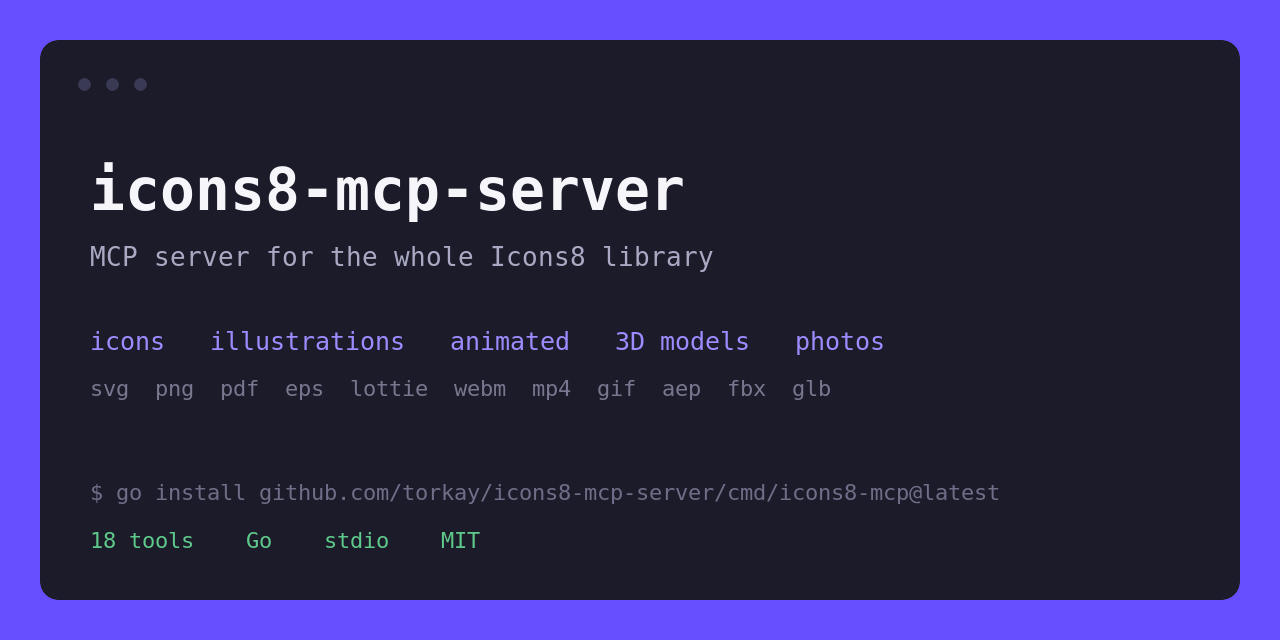
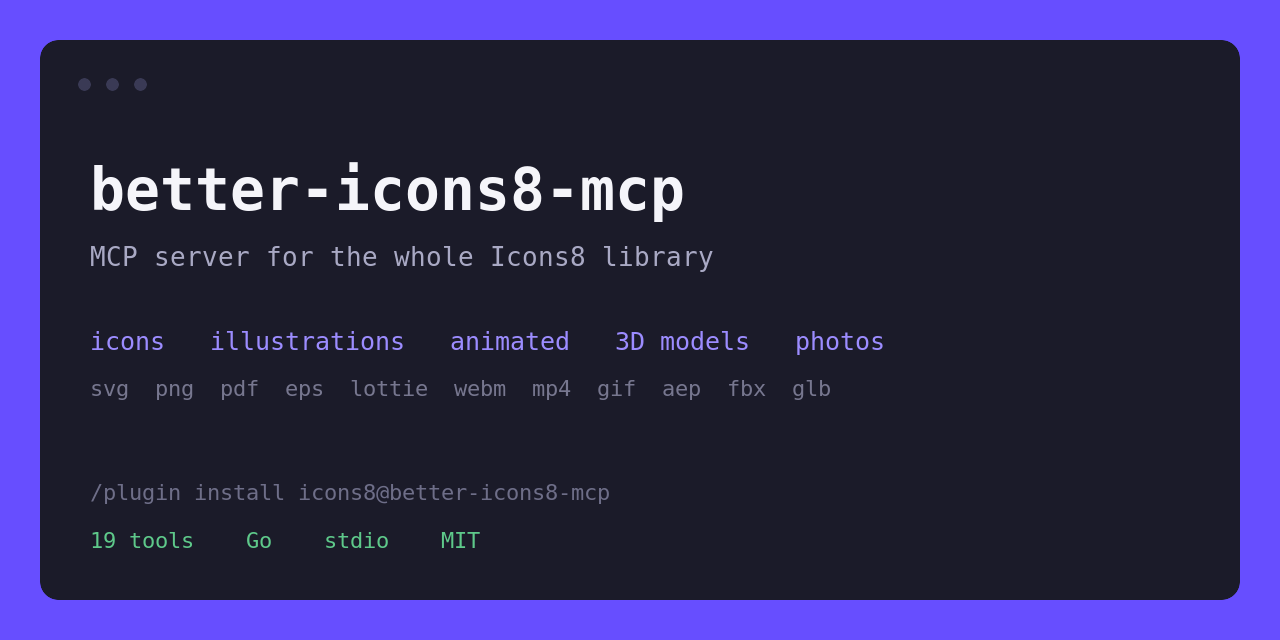
Bring the docs in line with the rename and the new setup

Changed region(s): [[0.0625, 0.25, 0.375, 0.3438], [0.0625, 0.75, 0.7812, 0.7812], [0.4062, 0.25, 0.5312, 0.3438]]

diff --git a/CHANGELOG.md b/CHANGELOG.md
@@ -5,6 +5,34 @@ Versions follow [Semantic Versioning](https://semver.org/spec/v2.0.0.html).
 
 ## [Unreleased]
 
+## [0.2.0] - 2026-09-01
+
+Renamed from `icons8-mcp-server` to `better-icons8-mcp`. The Go module path
+moved with it, so `go install` needs the new path.
+
+### Added
+
+- Claude Code plugin. `/plugin marketplace add torkay/better-icons8-mcp` then
+  `/plugin install icons8@better-icons8-mcp` installs the server and the
+  `design-assets` skill together. The bundled launcher fetches the platform
+  binary on first run and checks it against a published sha256, so Go is not
+  required.
+- `icons8_authorize` tool and `icons8-mcp auth`. Both open a browser window at
+  the Icons8 sign-in page and store the session, replacing the manual cookie
+  export.
+- `checksums.txt` on every release.
+- `ICONS8_AUTH_TIMEOUT` and `ICONS8_MCP_BIN`.
+
+### Changed
+
+- The server starts without a session instead of refusing to start. An MCP host
+  reporting a broken server gives the user no way to fix it. Tools now return
+  an actionable message naming `icons8_authorize`, and `icons8_account` reports
+  `authorized: false`.
+- The CLI takes subcommands (`auth`, `status`, `tools`, `import`, `version`)
+  rather than flags. Running it with no arguments is still the MCP server.
+- The skill moved to `plugins/icons8/skills/design-assets/`.
+
 ## [0.1.1] - 2026-09-01
 
 ### Changed
@@ -36,6 +64,7 @@ First public release.
   that fail silently.
 - `cmd/smoke`, a 29-check live suite driving the built binary over stdio.
 
-[Unreleased]: https://github.com/torkay/icons8-mcp-server/compare/v0.1.1...HEAD
-[0.1.1]: https://github.com/torkay/icons8-mcp-server/compare/v0.1.0...v0.1.1
-[0.1.0]: https://github.com/torkay/icons8-mcp-server/releases/tag/v0.1.0
+[Unreleased]: https://github.com/torkay/better-icons8-mcp/compare/v0.2.0...HEAD
+[0.2.0]: https://github.com/torkay/better-icons8-mcp/compare/v0.1.1...v0.2.0
+[0.1.1]: https://github.com/torkay/better-icons8-mcp/compare/v0.1.0...v0.1.1
+[0.1.0]: https://github.com/torkay/better-icons8-mcp/releases/tag/v0.1.0

diff --git a/SECURITY.md b/SECURITY.md
@@ -11,18 +11,28 @@ The token is a live credential for the account. Treat the state directory the
 way you would treat `~/.ssh`. Never paste a cookie dump into an issue, a pull
 request, or a screenshot.
 
+The session is stored under `$ICONS8_MCP_HOME`, not in the plugin's data
+directory, so uninstalling or updating the plugin does not scatter copies of it.
+
+## Downloading the server binary
+
+The plugin ships a launcher rather than five prebuilt binaries. On first run it
+fetches the release archive for the platform over HTTPS and checks it against
+`checksums.txt` from the same release before executing it. A mismatch is fatal.
+Set `ICONS8_MCP_BIN` to a binary you built yourself to skip the download.
+
 ## Rotating a session
 
 Signing out of Icons8 in the browser invalidates the token. To replace one:
 
 ```sh
 rm -f ~/.icons8-mcp/session.json
-icons8-mcp -import /path/to/fresh-cookies.json
+icons8-mcp auth
 ```
 
 ## Reporting a vulnerability
 
-Open a [private security advisory](https://github.com/torkay/icons8-mcp-server/security/advisories/new)
+Open a [private security advisory](https://github.com/torkay/better-icons8-mcp/security/advisories/new)
 rather than a public issue. Expect confirmation of receipt within a few days.
 
 Include what an attacker can do, what access they need first, and a minimal

diff --git a/CONTRIBUTING.md b/CONTRIBUTING.md
@@ -40,3 +40,16 @@ Cookie dumps, `session.json`, tokens, or anything else carrying a real session.
 
 Unit tests run offline. Anything needing the live API belongs in `cmd/smoke`,
 which is a program rather than a test package for that reason.
+
+## Cutting a release
+
+The plugin launcher downloads a pinned version, so three files carry the version
+number and all three have to move together:
+
+1. `VERSION` in `plugins/icons8/bin/icons8-mcp`
+2. `version` in `plugins/icons8/.claude-plugin/plugin.json`
+3. `version` for the plugin entry in `.claude-plugin/marketplace.json`
+
+Then update `CHANGELOG.md`, tag, and push the tag. The release workflow builds
+five platform archives and publishes `checksums.txt` alongside them, which is
+what the launcher verifies against.
